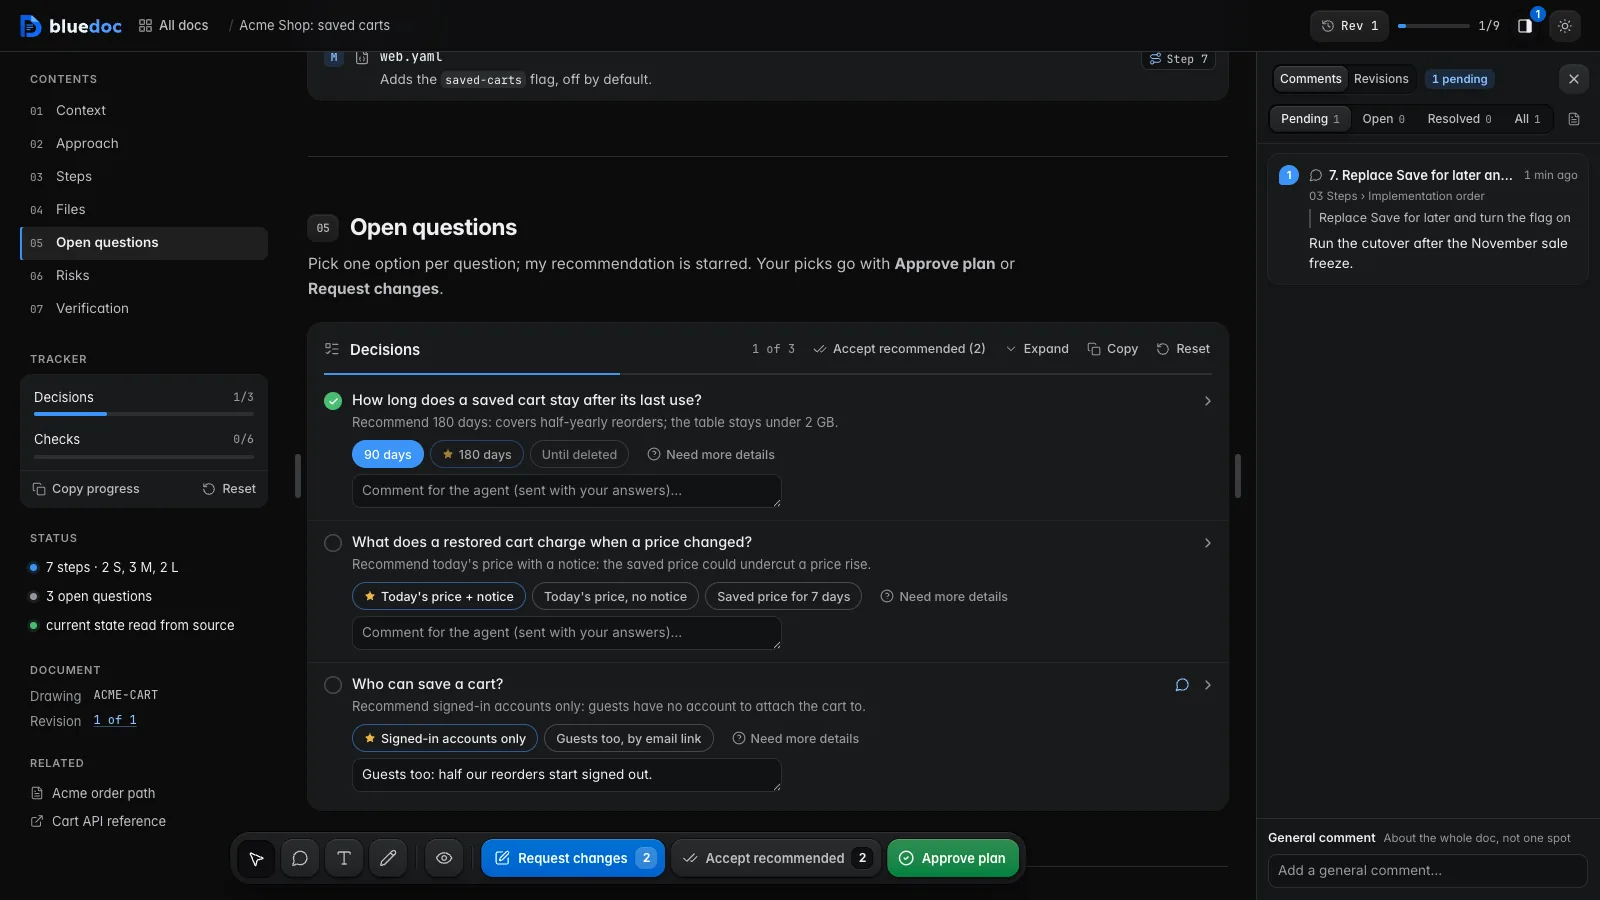
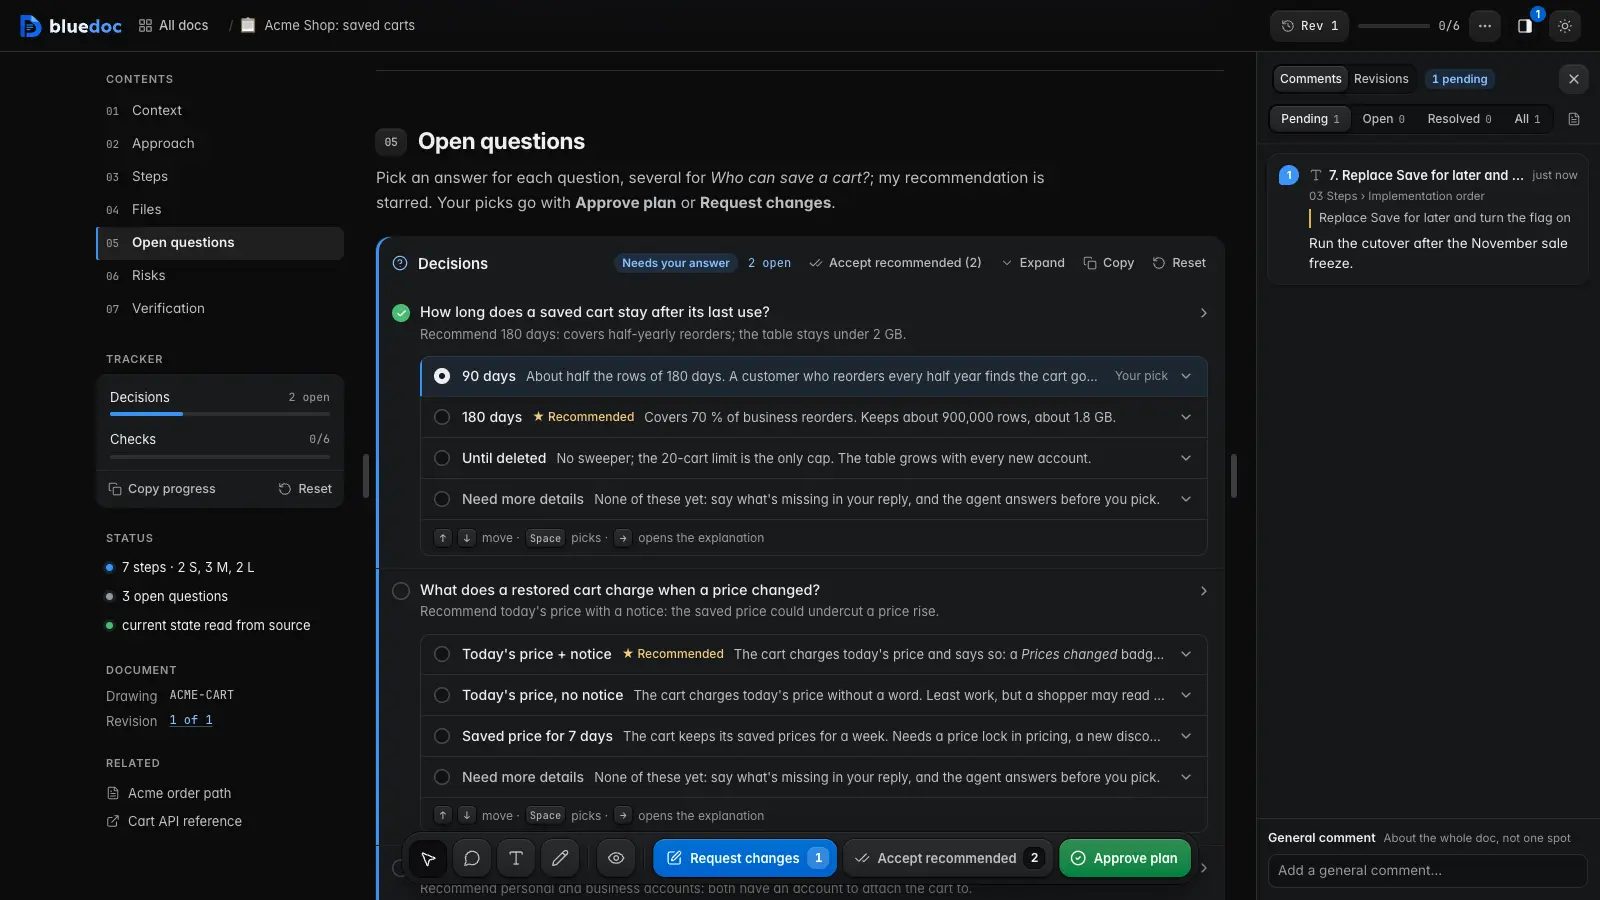
JSON in, page out: each option has its md (a valid new doc on bluedoc 1.0.6), choices on two lines to fit the box, and typing no longer cuts a line's last character; plan-hero and review-hero re-shot from 1.0.6 (option rows), plans card alt to match

diff --git a/src/content/site.ts b/src/content/site.ts
@@ -118,7 +118,7 @@ export const docTypes = {
       pitch: 'A plan you approve or send back before the agent writes code.',
       bullets: ['Steps, files, risks and checks on one page', 'Open questions with the recommendation starred', 'The agent waits for Approve plan'],
       image: planShot,
-      alt: 'The Acme saved carts plan: three open questions with the recommended options starred, and Approve plan in the bottom tray.',
+      alt: 'The Acme saved carts plan: open questions as option rows, 90 days picked and the recommended options starred, a pending comment in the panel, and Approve plan in the bottom tray.',
       href: `${base}plans/`,
     },
     {
@@ -239,23 +239,25 @@ export const codePeek = {
   title: 'The agent writes JSON. You get a page.',
   lead: 'Agents never write page HTML. The server renders each doc from its JSON on every request, so an edit and a reload is the whole build.',
   fileName: 'saved-carts.bluedoc.json',
-  // Shown with a typing animation. Keep it short: about 20 lines fit the editor.
+  // Shown with a typing animation. Keep it short (about 20 lines fit the editor) and narrow: a line over about 60
+  // characters runs past the box at 1440 px.
   snippet: `{
   "title": "Acme Shop: saved carts",
   "meta": { "type": "plan", "rev": "1" },
   "sections": [{
     "title": "Open questions",
     "blocks": [{
-      "type": "checklist",
-      "id": "decisions",
+      "type": "checklist", "id": "decisions",
       "items": [{
-        "id": "retention",
+        "id": "retention", "recommend": "d180",
         "text": "How long does a saved cart stay?",
-        "recommend": "d180",
         "choices": [
-          { "id": "d90", "label": "90 days" },
-          { "id": "d180", "label": "180 days" },
-          { "id": "forever", "label": "Until deleted" }
+          { "id": "d90", "label": "90 days",
+            "md": "Half the storage." },
+          { "id": "d180", "label": "180 days",
+            "md": "Most reorders fit." },
+          { "id": "forever", "label": "Until deleted",
+            "md": "No sweeper." }
         ]
       }]
     }]
